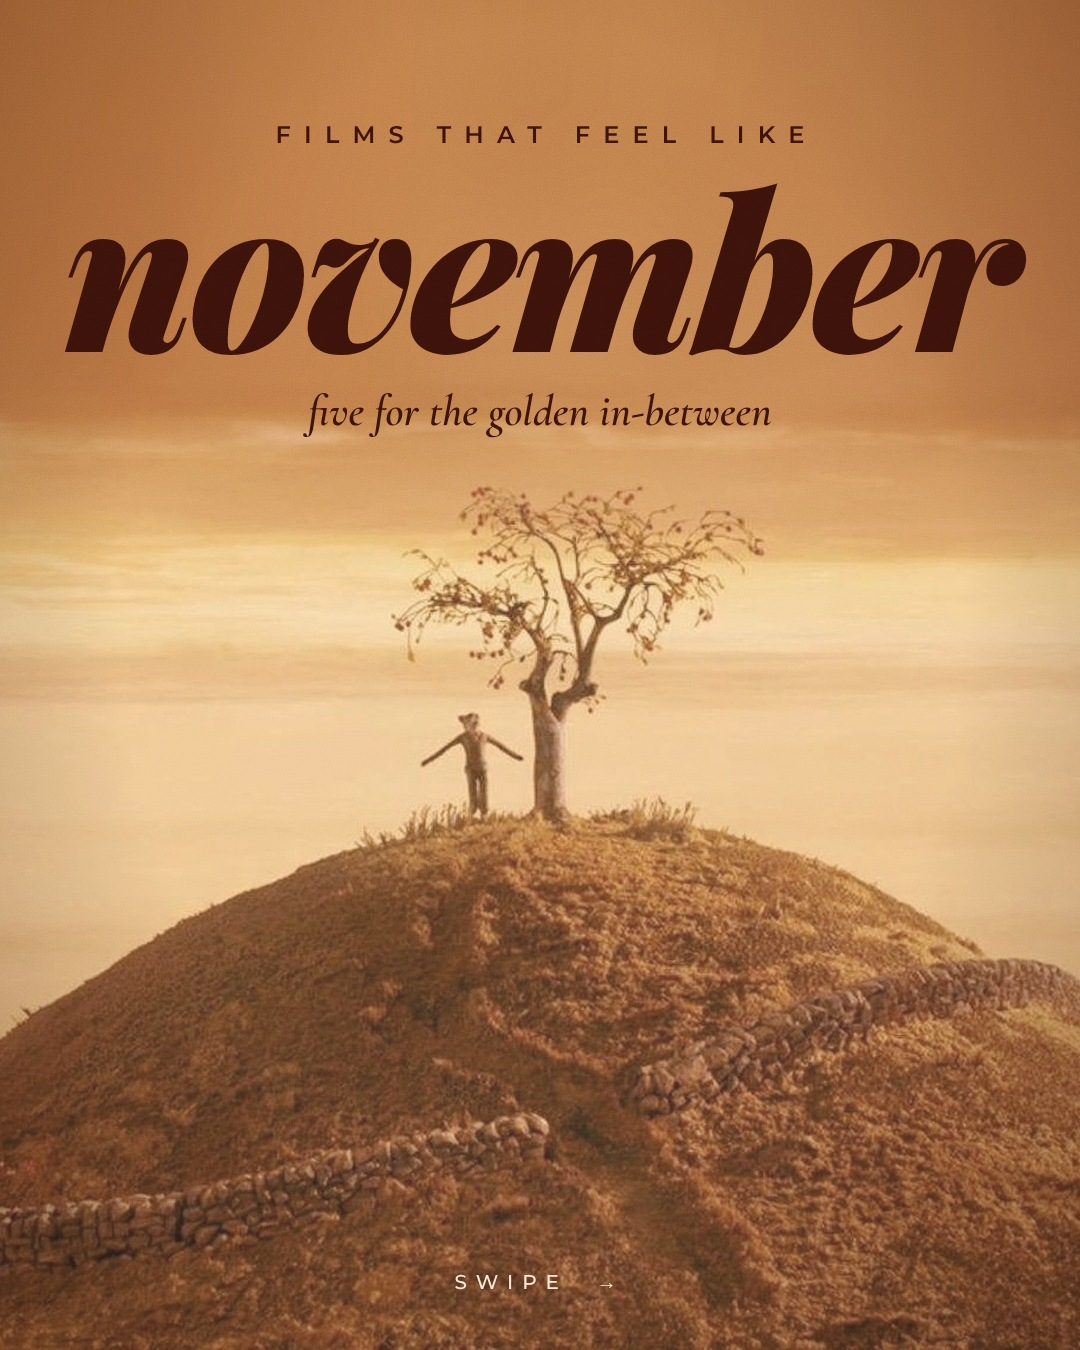
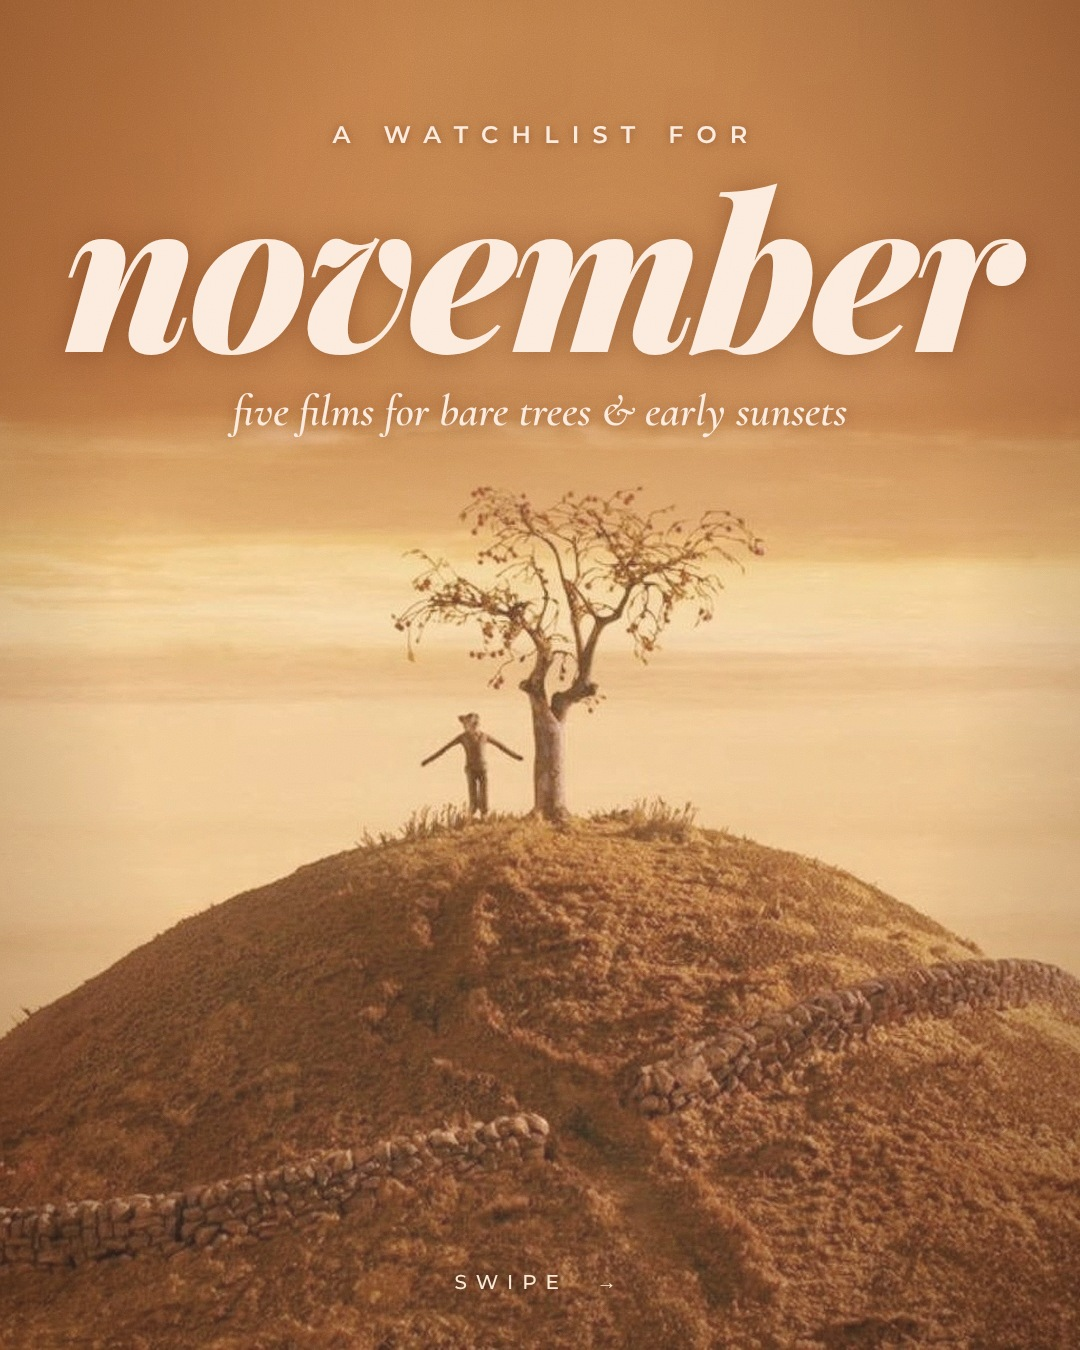
motion_scene november: blush cover type (differ from today's anime post)
Claude-Session: https://claude.ai/code/session_01EdFgetQ3WNWspGBzoQeVYc

Changed region(s): [[0.0611, 0.0933, 0.9472, 0.3422]]

diff --git a/tools/slideshow/render_nov.js b/tools/slideshow/render_nov.js
@@ -19,9 +19,9 @@ body{width:1080px;height:1350px;overflow:hidden;position:relative}
 .matte{position:absolute;inset:0;background:rgba(240,215,180,.08);mix-blend-mode:screen}
 .vig{position:absolute;inset:0;background:radial-gradient(ellipse at 50% 45%,rgba(0,0,0,0) 55%,rgba(40,10,0,.32) 100%)}
 .ctxt{position:absolute;left:0;right:0;text-align:center;color:var(--ink)}
-.kick{font-family:Mont;font-weight:600;font-size:24px;letter-spacing:.55em;padding-left:.55em}
-.hero{font-family:Play;font-style:italic;font-weight:900;font-size:212px;line-height:.92;letter-spacing:-.02em;margin-top:18px}
-.csub{font-family:Corm;font-style:italic;font-weight:600;font-size:44px;margin-top:22px}
+.kick{text-shadow:0 1px 10px rgba(70,20,0,.4);font-family:Mont;font-weight:600;font-size:24px;letter-spacing:.55em;padding-left:.55em}
+.hero{text-shadow:0 2px 30px rgba(70,20,0,.35);font-family:Play;font-style:italic;font-weight:900;font-size:212px;line-height:.92;letter-spacing:-.02em;margin-top:18px}
+.csub{text-shadow:0 1px 14px rgba(70,20,0,.4);font-family:Corm;font-style:italic;font-weight:600;font-size:44px;margin-top:22px}
 .rule{width:90px;height:2px;background:var(--ink);margin:30px auto 0;opacity:.8}
 .cfoot{position:absolute;bottom:56px;left:0;right:0;text-align:center;color:#FBE9D6;font-family:Mont;font-weight:500;font-size:20px;letter-spacing:.45em;text-shadow:0 1px 12px rgba(60,20,0,.6)}
 /* duotone */
